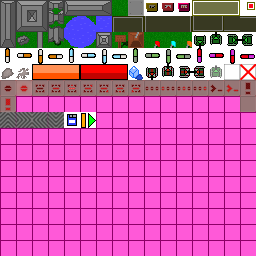
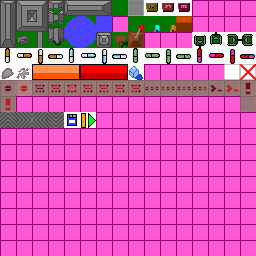
Removed old multiplayer rubbish

Changed region(s): [[0.4375, 0.0, 1.0, 0.1875], [0.5625, 0.25, 0.875, 0.3125]]

diff --git a/game/screen/ScreenMapEditor.java b/game/screen/ScreenMapEditor.java
@@ -8,7 +8,6 @@ import game.SpriteSheet;
 import game.entity.Entity;
 import game.entity.EntityAmmo;
 import game.entity.EntityBullet;
-import game.entity.EntityTank;
 import game.entity.Player;
 import game.tile.Tile;
 import game.tile.TileGrass;
@@ -51,44 +50,14 @@ public class ScreenMapEditor extends Screen {
 	public void init() {
 		Game.log("Initializing...");
 		tileList.put("Remover", null);
-		tileList.put("Wire", new TileWire(null, 0, 0, 0));
-		tileList.put("Grass", new TileGrass(null));
-		tileList.put("Paving", new TilePaving(null));
-		tileList.put("Rubble", new TileRubble(null));
-		tileList.put("Water", new TileWater(null));
-		tileList.put("Horizontal Wall", new TileWall(null,
-				TileWall.WALL_HORIZONTAL));
-		tileList.put("Vertical Wall",
-				new TileWall(null, TileWall.WALL_VERTICAL));
-		tileList.put("Horizontal Left", new TileWall(null,
-				TileWall.WALL_HORIZONTAL_LEFT));
-		tileList.put("Horizontal Right", new TileWall(null,
-				TileWall.WALL_HORIZONTAL_RIGHT));
-		tileList.put("Vertical Bottom", new TileWall(null,
-				TileWall.WALL_VERTICAL_BOTTOM));
-		tileList.put("Vertical Top", new TileWall(null,
-				TileWall.WALL_VERTICAL_TOP));
-		tileList.put("Bottom Corner Left", new TileWall(null,
-				TileWall.BOTTOM_CORNER_LEFT));
-		tileList.put("Bottom Corner Right", new TileWall(null,
-				TileWall.BOTTOM_CORNER_RIGHT));
-		tileList.put("Damaged Vertical Top", new TileWall(null,
-				TileWall.WALL_VERTICAL_DAMAGED_TOP));
-		tileList.put("Top Corner Left", new TileWall(null,
-				TileWall.TOP_CORNER_LEFT));
-		tileList.put("Top Corner Right", new TileWall(null,
-				TileWall.TOP_CORNER_RIGHT));
-		tileList.put("Bottom Corner Left", new TileWall(null,
-				TileWall.BOTTOM_CORNER_LEFT));
-		tileList.put("Bottom Corner Right", new TileWall(null,
-				TileWall.BOTTOM_CORNER_RIGHT));
+
 
 		entityList.put("Ammo Box", new EntityAmmo(null, 0, 0));
 		entityList.put("Player", new Player(null));
 		entityList.put("Bullet t1", new EntityBullet(null, 2, 1, 0, 0));
 		entityList.put("Bullet t2", new EntityBullet(null, 3, 2, 0, 0));
 		entityList.put("Bullet t3", new EntityBullet(null, 4, 3, 0, 0));
-		entityList.put("Tank", new EntityTank(null));
+		
 
 		int tileCnt = 0, y = 0, x = 0;
 

diff --git a/game/tile/Tile.java b/game/tile/Tile.java
@@ -13,13 +13,31 @@ public class Tile implements Serializable{
 	 * 
 	 */
 	private static final long serialVersionUID = -2215788549581724737L;
+	public static Tile[] tiles = new Tile[32];
+
 	boolean canPassThrough = true;
 	public int sprite = 1;
 	protected ScreenGame game;
 	
-	public Tile(ScreenGame game)
+	public Tile()
 	{
 		this.game = game;
+		tiles[0] = null;
+		tiles[1] = new TileGrass();
+		tiles[2] = new TilePaving();
+		tiles[3] = new TileRubble();
+		tiles[4] = new TileWall(TileWall.BOTTOM_CORNER_LEFT);
+		tiles[5] = new TileWall(TileWall.BOTTOM_CORNER_RIGHT);
+		tiles[6] = new TileWall(TileWall.TOP_CORNER_LEFT);
+		tiles[7] = new TileWall(TileWall.TOP_CORNER_RIGHT);
+		tiles[8] = new TileWall(TileWall.WALL_HORIZONTAL);
+		tiles[9] = new TileWall(TileWall.WALL_HORIZONTAL_LEFT);
+		tiles[10] = new TileWall(TileWall.WALL_HORIZONTAL_RIGHT);
+		tiles[11] = new TileWall(TileWall.WALL_VERTICAL);
+		tiles[12] = new TileWall(TileWall.WALL_VERTICAL_BOTTOM);
+		tiles[13] = new TileWall(TileWall.WALL_VERTICAL_DAMAGED_TOP);
+		tiles[14] = new TileWall(TileWall.WALL_VERTICAL_TOP);
+		
 	}
 	
 	public boolean isPassable()

diff --git a/game/screen/ScreenGame.java b/game/screen/ScreenGame.java
@@ -50,7 +50,7 @@ public class ScreenGame extends Screen {
 
 				tiles.put(
 						new Rectangle(x, y, 16 * Game.SCALE, 16 * Game.SCALE),
-						new TileGrass(this));
+						new TileGrass()); //TODO:FIX
 				
 				int rnd = rand.nextInt(10);
 				if(rnd == 5)
@@ -207,8 +207,7 @@ public class ScreenGame extends Screen {
 	public void mouseReleased(MouseEvent e) {
 		tiles.put(new Rectangle(MathHelper.round(e.getX(), 16 * Game.SCALE),
 				MathHelper.round(e.getY(), 16 * Game.SCALE), 32, 32), e
-				.getButton() == MouseEvent.BUTTON1 ? new TileWall(this,
-				TileWall.WALL_VERTICAL) : new TileGrass(this));
+				.getButton() == MouseEvent.BUTTON1 ? new TileWall(TileWall.WALL_VERTICAL) : new TileGrass()); //TODO: FIX
 	}
 
 	@Override

diff --git a/game/screen/ScreenMainMenu.java b/game/screen/ScreenMainMenu.java
@@ -105,7 +105,7 @@ public class ScreenMainMenu extends Screen {
 			case 2:
 				{
 					try{
-					game.setScreen(new ScreenMultiplayer(w, h, sheet, g,"80.193.196.105", 25565));
+					//game.setScreen(new ScreenMultiplayer(w, h, sheet, g,"80.193.196.105", 25565));
 					}catch(Exception e)
 					{
 						game.setScreen(new ScreenConnectionFailiure(w, h, sheet));

diff --git a/game/tile/WireProvider.java b/game/tile/WireProvider.java
@@ -9,8 +9,7 @@ public class WireProvider extends Tile{
 	
 	public boolean powered = false;
 	public int blockMask = 0, x, y;
-	public WireProvider(ScreenGame game, int blockmask, int x, int y) {
-		super(game);
+	public WireProvider(int blockmask, int x, int y) {
 		this.blockMask = blockMask;
 		this.x = x;
 		this.y = y;

diff --git a/game/tile/TileWire.java b/game/tile/TileWire.java
@@ -5,8 +5,8 @@ import game.screen.ScreenGame;
 
 public class TileWire extends WireProvider{
 
-	public TileWire(ScreenGame game, int blockmask, int x, int y) {
-		super(game, blockmask, x, y);
+	public TileWire(int blockmask, int x, int y) {
+		super(blockmask, x, y);
 		sprite = 5;
 	
 	}

diff --git a/game/entity/EntityBullet.java b/game/entity/EntityBullet.java
@@ -49,7 +49,7 @@ public class EntityBullet extends Entity{
 		{
 			if(t instanceof TileWall)
 			{
-				game.setTileAt(x, y, new TileRubble(game));
+				game.setTileAt(x, y, new TileRubble());
 			}
 			game.spawnEntity(new EntityExplosion(game, x-4, y-2, 2));
 			this.forRemoval = true;

diff --git a/game/tile/TileRubble.java b/game/tile/TileRubble.java
@@ -9,8 +9,7 @@ public class TileRubble extends Tile{
 	 */
 	private static final long serialVersionUID = -5853358076920516483L;
 
-	public TileRubble(ScreenGame game) {
-		super(game);
+	public TileRubble() {
 		sprite = 19;
 		canPassThrough = true;
 	}

diff --git a/game/tile/TileWater.java b/game/tile/TileWater.java
@@ -9,8 +9,7 @@ public class TileWater extends Tile{
 	 */
 	private static final long serialVersionUID = 1625043749319476216L;
 
-	public TileWater(ScreenGame game) {
-		super(game);
+	public TileWater() {
 		sprite = 22;
 		canPassThrough = false;
 	}

diff --git a/game/tile/TileGrass.java b/game/tile/TileGrass.java
@@ -12,8 +12,7 @@ public class TileGrass extends Tile{
 	 */
 	private static final long serialVersionUID = 679389482939848986L;
 
-	public TileGrass(ScreenGame screenGame) {
-		super(screenGame);
+	public TileGrass() {
 		sprite = 7;
 	}
 

diff --git a/game/tile/TilePaving.java b/game/tile/TilePaving.java
@@ -9,8 +9,7 @@ public class TilePaving extends Tile{
 	 */
 	private static final long serialVersionUID = 8306253142110401132L;
 
-	public TilePaving(ScreenGame game) {
-		super(game);
+	public TilePaving() {
 		sprite = 8;
 	}
 	

diff --git a/game/entity/Player.java b/game/entity/Player.java
@@ -5,7 +5,6 @@ import java.awt.event.KeyEvent;
 import game.Controls;
 import game.screen.Screen;
 import game.screen.ScreenGame;
-import game.screen.ScreenMultiplayer;
 
 public class Player extends Entity {
 
